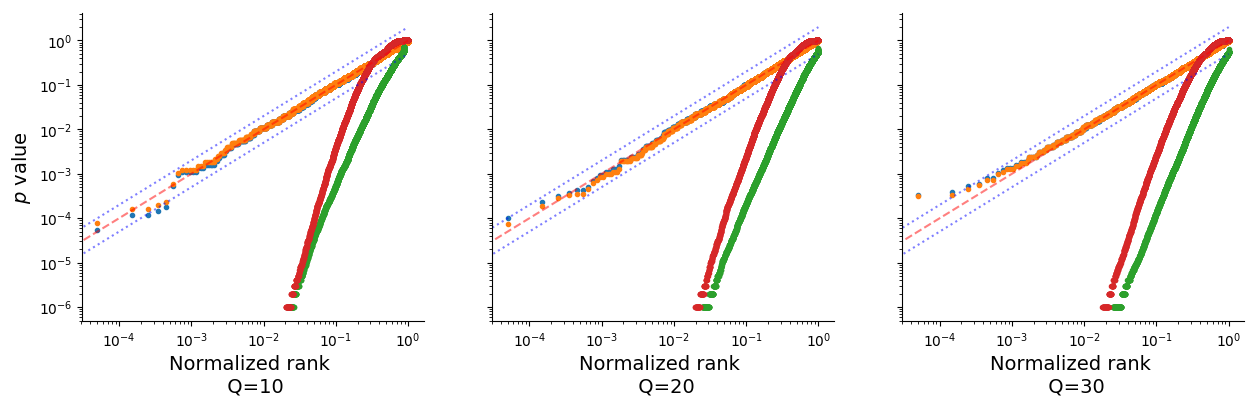
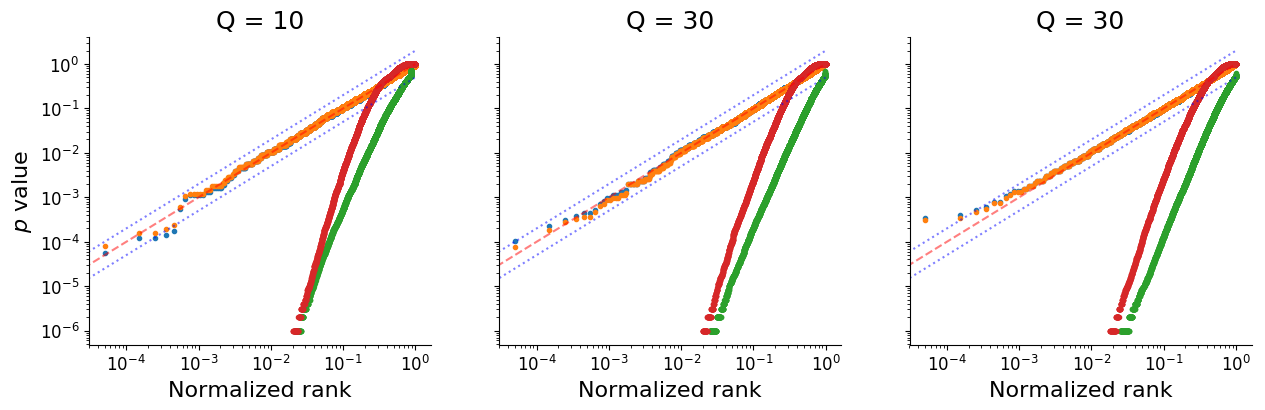
text

diff --git a/exp/combine_plot_multiple.py b/exp/combine_plot_multiple.py
@@ -41,10 +41,11 @@ def one_plot(ax, Q):
     sns.set_style("ticks")
     sns.despine()
 
-    ax.loglog(binox_ix, binox_both_sorted, '.')
-    ax.loglog(binox_ix, binox_enrich_sorted, '.')
     ax.loglog(genesetdp_ix, genesetdp_sorted,'.')
     ax.loglog(genesetdp_ix, genesetdp_sorted_mc,'.')
+    ax.loglog(binox_ix, binox_both_sorted, '.')
+    ax.loglog(binox_ix, binox_enrich_sorted, '.')
+
     ax.loglog(x_y, '--', color = 'r', alpha = 0.5)
     ax.loglog(x_2y, ':',color = 'b', alpha = 0.5)
     ax.loglog(x_halfy, ':',color = 'b', alpha = 0.5)
@@ -56,22 +57,27 @@ one_plot(ax1, 10)
 one_plot(ax2, 20)
 one_plot(ax3, 30)
 
-ax1.set_title('Q = 10')
-ax2.set_title('Q = 30')
-ax3.set_title('Q = 30')
+ax1.set_title('Q = 10', fontsize=18)
+ax2.set_title('Q = 30', fontsize=18)
+ax3.set_title('Q = 30', fontsize=18)
 
-ax1.set(ylabel='$p$ value', xlabel = 'Normalized rank')
-ax2.set(xlabel = 'Normalized rank')
-ax3.set(xlabel = 'Normalized rank')
+ax1.set_ylabel('$p$ value', fontsize = 16)
+ax1.set_xlabel('Normalized rank', fontsize = 16)
+ax2.set_xlabel('Normalized rank', fontsize = 16)
+ax3.set_xlabel('Normalized rank', fontsize = 16)
 
-# for ax in [ax1,ax2,ax3]:
-#     ax.set_aspect('equal')
+for ax in [ax1,ax2,ax3]:
+    ax.xaxis.set_tick_params(labelsize=12)
+    ax.yaxis.set_tick_params(labelsize=12)
 
-lgd = fig.legend(['BinoX', 'BinoX (enriched)     ', 'GeneSetDP', 'GeneSetMC', 'y=x', 'y=0.5x,y=2x'], loc='center left', bbox_to_anchor=(0.85,0.5))
+# lgd = fig.legend(['GeneSetDP', 'GeneSetMC', 'BinoX', 'BinoX (enriched)'], loc='center left', bbox_to_anchor=(0.85,0.5))
+# fig.legend(['GeneSetDP', 'GeneSetMC', 'BinoX', 'BinoX (enriched)'], fontsize=15)
 
-fig.set_size_inches(10,3)
-fig.savefig('calibration_multiple.png', bbox_extra_artists=(lgd,), bbox_inches='tight')
 
+fig.set_size_inches(15,4)
+# fig.savefig('calibration_multiple.png', bbox_extra_artists=(lgd,), bbox_inches='tight')
+fig.savefig('calibration_multiple.png', bbox_inches='tight')
+plt.show()
 
 # plt.savefig('calibration_multiple.png')
 # plt.show()

diff --git a/doc/genesetdp.tex b/doc/genesetdp.tex
@@ -173,10 +173,10 @@ We note that the calibration of GeneSetDP is slightly conservative, i.e. the cal
 
 \begin{figure}[htb]
   \begin{center}
-		  \begin{tabular}{c@{}c}
-				  \includegraphics[width=1.0\textwidth]{figures/calibration_multiple.png} &
-	  \includegraphics[width=0.2\textwidth]{figures/calibration_legend.png}
-	  \end{tabular}
+		  \begin{tabular}[c]{c@{}c}
+				\includegraphics[width=1.0\textwidth]{figures/calibration_multiple.png} &
+				\vtop{\includegraphics[width=0.2\textwidth]{figures/calibration_legend.png}}
+    \end{tabular}
   \end{center}
   \caption{{\bf Calibration of GeneSetDP and GeneSetMC.} We selected 10000 random sets of 10, 20 and 30 genes from the investigated genome definition and calculated their $p$ values with GeneSetMC and GeneSetDP against the ``Glycolysis/Gluconeogenesis'' pathway. To test the $p$~values uniformity we plotted them against their {\em normalized rank}, i.e. each $p$~value's (<rank>-0.5)/<total number of $p$~values>. We also added the calibration curve of BinoX, evaluated on the same random sets. On all plots the dashed line shows $y = x$ and the dotted lines $y = 2x$ and $y = 0.5x$, for comparison}
   \label{fig:calibration}

diff --git a/exp/combine_plot.py b/exp/combine_plot.py
@@ -50,8 +50,11 @@ plt.loglog(x_y, '--', color = 'r', alpha = 0.5)
 plt.loglog(x_2y, ':',color = 'b', alpha = 0.5)
 plt.loglog(x_halfy, ':',color = 'b', alpha = 0.5)
 
+plt.legend(['BinoX', 'BinoX (enrichment)' 'GeneSetDP', 'GeneSetMC', 'y=x', 'y=0.5x,y=2x'])
 plt.ylabel('$p$ value')
 plt.xlabel('Normalized rank')
+
+
 
 plt.savefig('calibration_Q' + str(Q) + '.png')
 plt.show()
